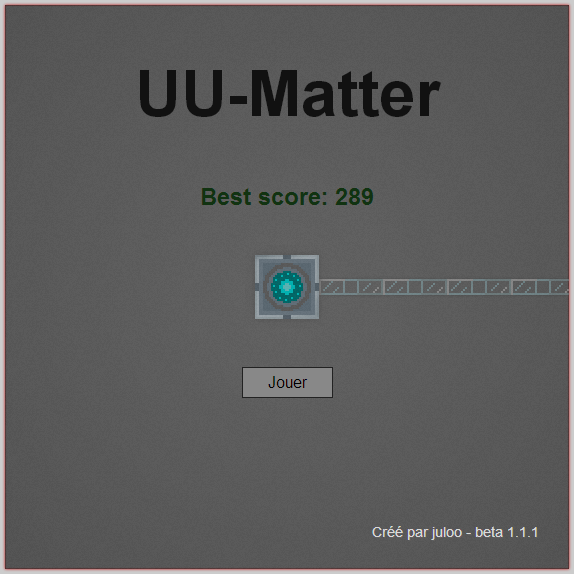
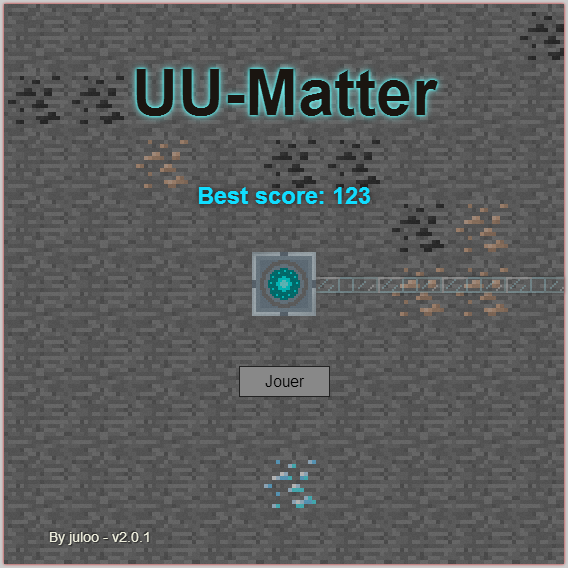
Up to v2.0.1

diff --git a/js/global.js b/js/global.js
@@ -26,5 +26,5 @@ function Globals()
 	this.iridium_background_style = 'url("assets/img/iridium.png")';
 	this.iridium_chance = 0.05;
 	this.score_storage_key = 'UUMatterBestScore';
-	this.footer_text = 'By <a href="https://github.com/JWhile" target="_blank">juloo</a> - pre2.0.0';
+	this.footer_text = 'By <a href="https://github.com/JWhile" target="_blank">juloo</a> - v2.0.1';
 }
